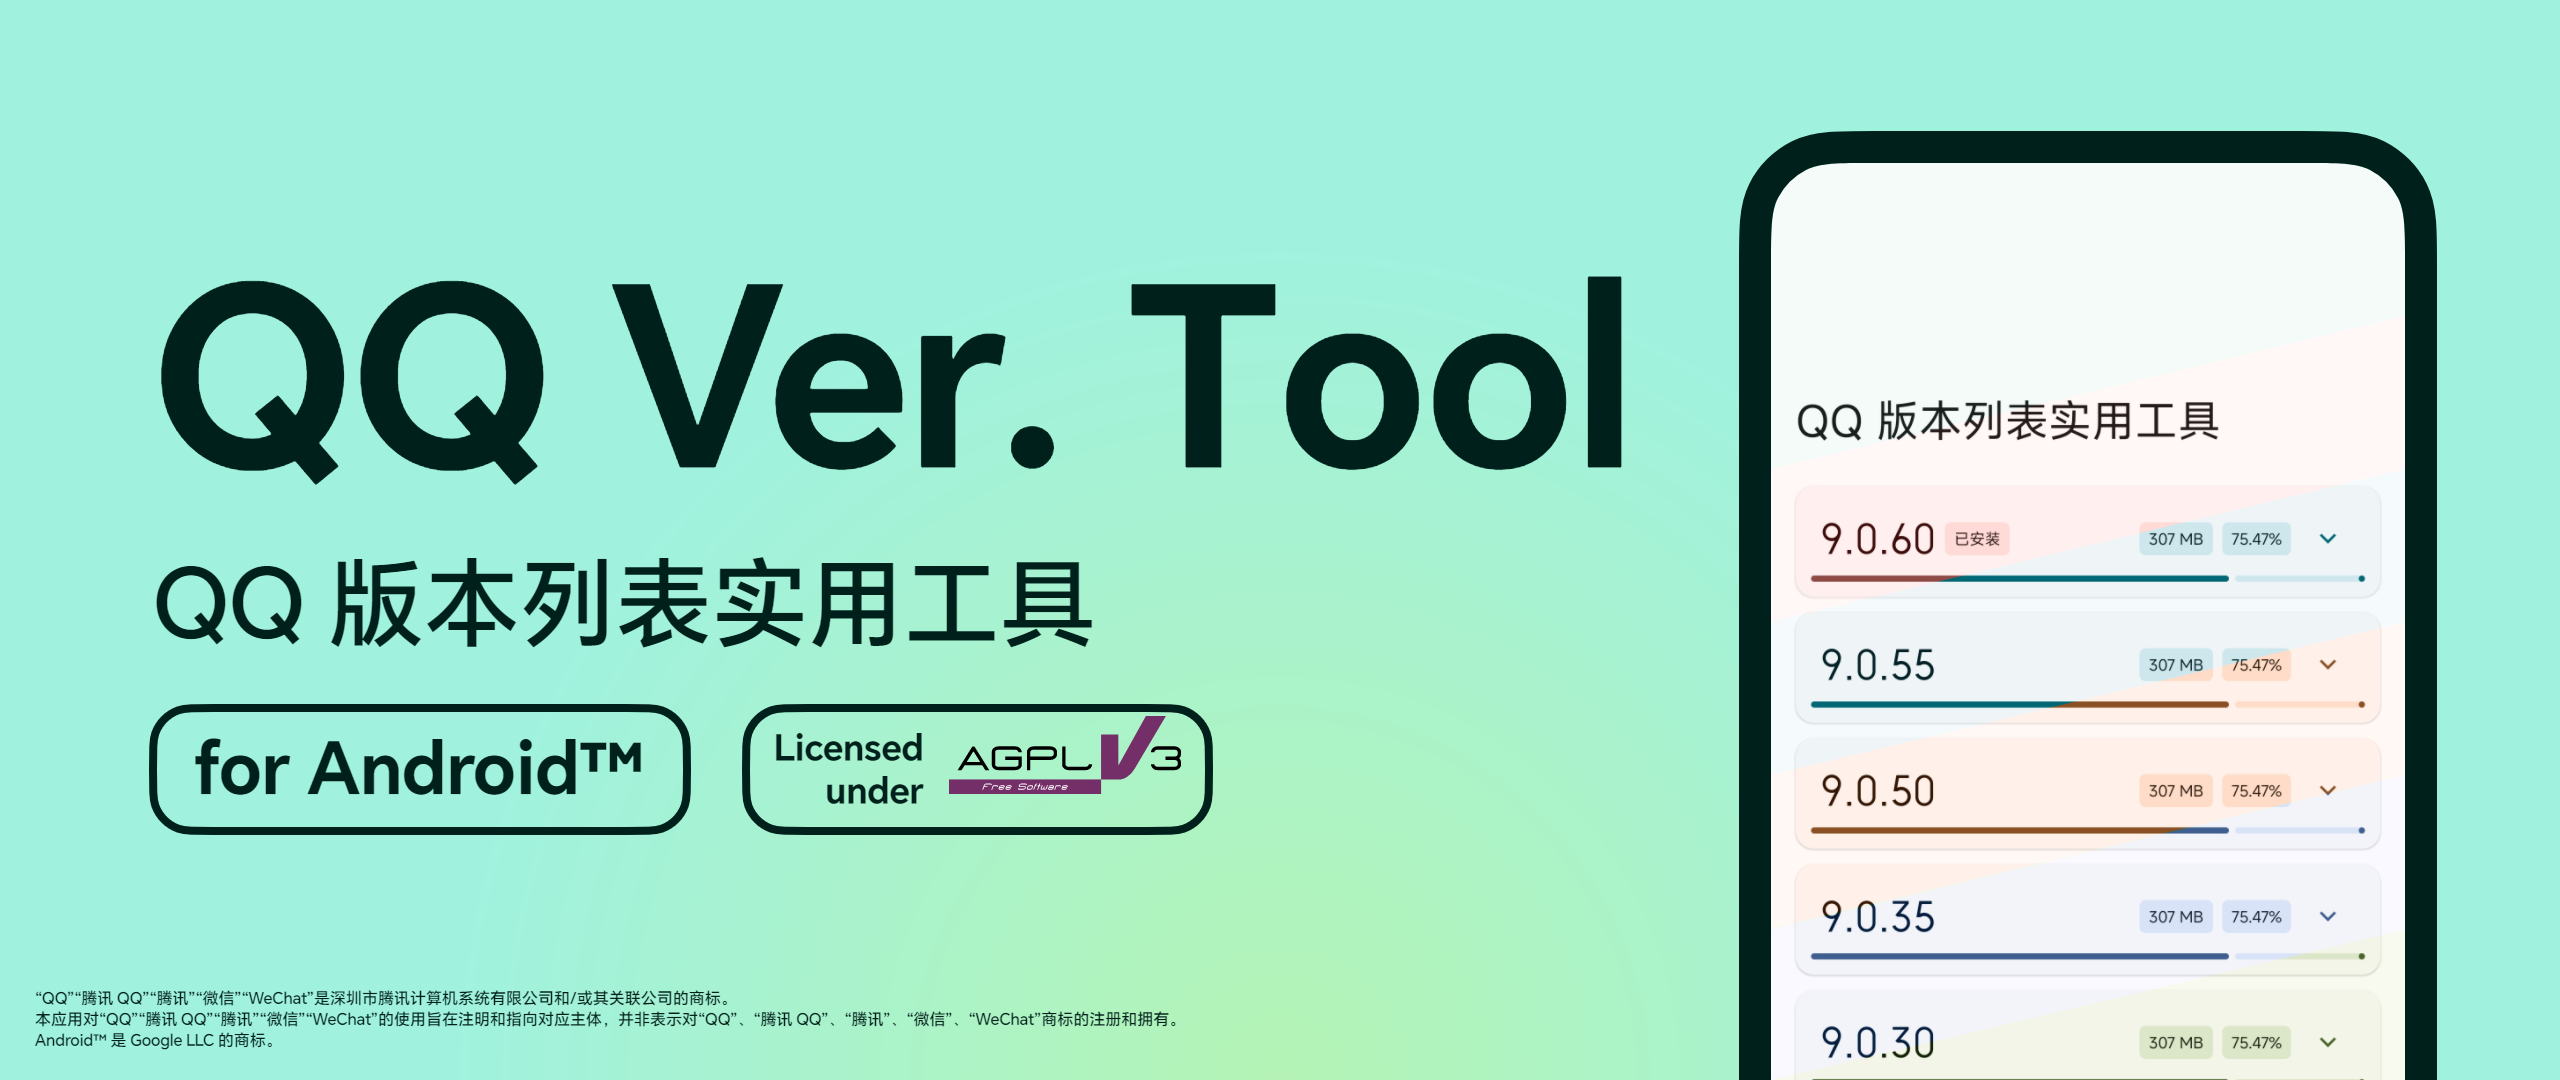
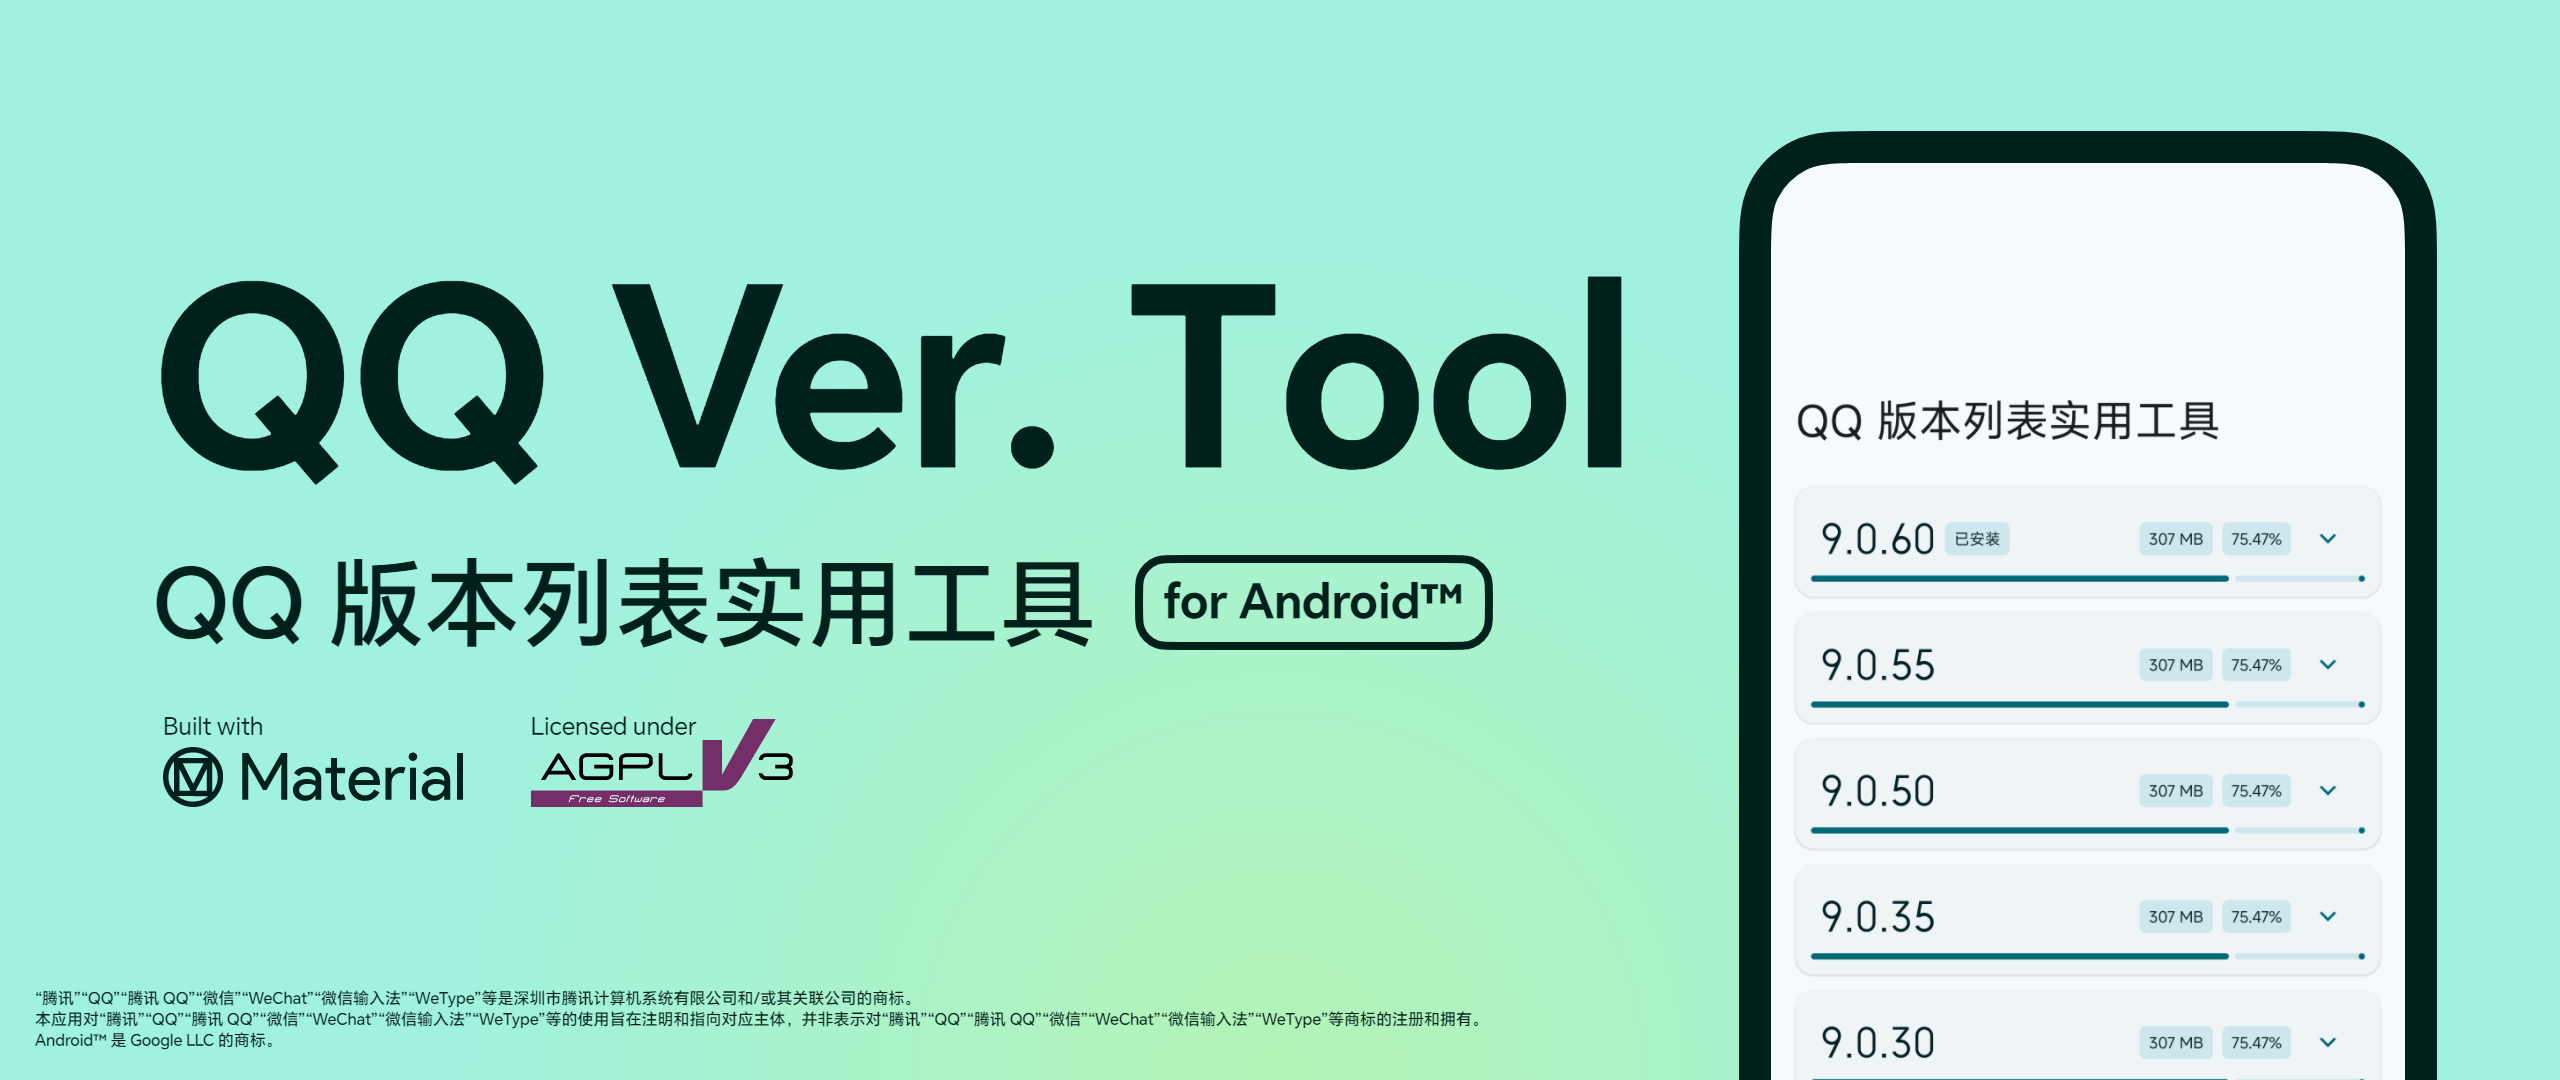
替换宣传图
宣传图多彩配色撞色不好看，声明了 built with material 后即可传达同样的信息

diff --git a/app/src/main/java/com/xiaoniu/qqversionlist/ui/MainActivity.kt b/app/src/main/java/com/xiaoniu/qqversionlist/ui/MainActivity.kt
@@ -36,9 +36,12 @@ import android.text.SpannableString
 import android.text.TextWatcher
 import android.text.style.URLSpan
 import android.util.Base64
+import android.view.Gravity
 import android.view.View
 import android.view.ViewGroup
 import android.view.inputmethod.InputMethodManager
+import android.widget.ImageView
+import android.widget.LinearLayout
 import android.widget.TextView
 import androidx.activity.enableEdgeToEdge
 import androidx.appcompat.app.AppCompatActivity
@@ -257,8 +260,6 @@ class MainActivity : AppCompatActivity() {
                                 "特别感谢：owo233\n" +
                                 "开源地址：GitHub\n" +
                                 "获取更新：GitHub Releases、Obtainium、九七通知中心\n\n" +
-                                "Designed & Built with Material 3\n" +
-                                "Licensed under GNU AGPL v3\n" +
                                 "Since 2023.8.9"
                     ).apply {
                         setSpan(
@@ -304,18 +305,6 @@ class MainActivity : AppCompatActivity() {
                             SpannableString.SPAN_EXCLUSIVE_EXCLUSIVE
                         )
                         setSpan(
-                            URLSpan("https://github.com/klxiaoniu/QQVersionList/blob/master/LICENSE"),
-                            indexOf("GNU AGPL v3"),
-                            indexOf("GNU AGPL v3") + "GNU AGPL v3".length,
-                            SpannableString.SPAN_EXCLUSIVE_EXCLUSIVE
-                        )
-                        setSpan(
-                            URLSpan("https://m3.material.io"),
-                            indexOf("Material 3"),
-                            indexOf("Material 3") + "Material 3".length,
-                            SpannableString.SPAN_EXCLUSIVE_EXCLUSIVE
-                        )
-                        setSpan(
                             URLSpan("https://github.com/klxiaoniu/QQVersionList/releases"),
                             indexOf("GitHub Releases"),
                             indexOf("GitHub Releases") + "GitHub Releases".length,
@@ -334,10 +323,30 @@ class MainActivity : AppCompatActivity() {
                             SpannableString.SPAN_EXCLUSIVE_EXCLUSIVE
                         )
                     }
+                    val linearLayout = LinearLayout(this).apply {
+                        orientation = LinearLayout.VERTICAL
+                        layoutParams = ViewGroup.LayoutParams(
+                            ViewGroup.LayoutParams.MATCH_PARENT,
+                            ViewGroup.LayoutParams.WRAP_CONTENT
+                        )
+                        setPadding(128, 64, 128, 0)
+                        gravity = Gravity.CENTER_HORIZONTAL
+                    }
+                    val imageView = ImageView(this).apply {
+                        setImageResource(R.drawable.built_with_material_licensed_under_agpl_v3)
+                        scaleType = ImageView.ScaleType.CENTER_INSIDE
+                        adjustViewBounds = true
+                    }
+                    imageView.layoutParams = LinearLayout.LayoutParams(
+                        LinearLayout.LayoutParams.MATCH_PARENT,
+                        LinearLayout.LayoutParams.WRAP_CONTENT
+                    )
+                    linearLayout.addView(imageView)
                     MaterialAlertDialogBuilder(this)
                         .setTitle("关于")
                         .setIcon(R.drawable.information_line)
                         .setMessage(message)
+                        .setView(linearLayout)
                         .setPositiveButton("确定", null)
                         .setNegativeButton("撤回同意用户协议") { _, _ ->
                             showUADialog(true, judgeUATarget)
